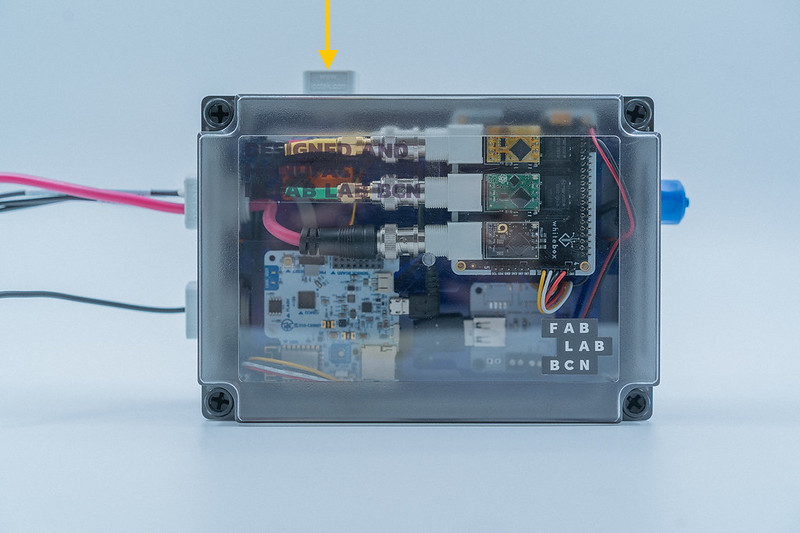
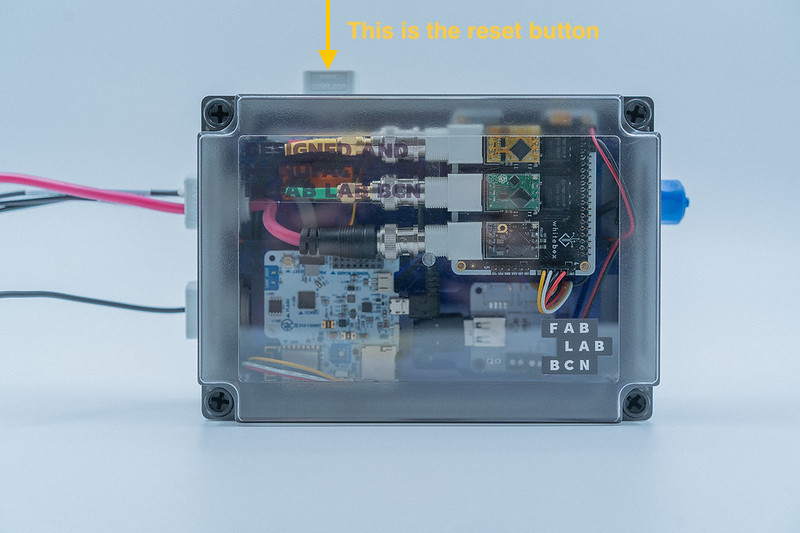
Update guides and add reset photos

Changed region(s): [[0.4375, 0.03, 0.75, 0.0901]]

diff --git a/docs/includes/en/publications/mentions.md b/docs/includes/en/publications/mentions.md
@@ -1,3 +1,4 @@
+
 - [The influence of the vegetation cycle on the mitigation of air pollution by a deciduous roadside hedge - Thor-Bjørn Ottosen, Prashant Kumar](https://www.sciencedirect.com/science/article/pii/S2210670719329567?via%3Dihub): study lead by the [University of Surrey](https://www.surrey.ac.uk/), as part of the [iScape project](https://www.iscapeproject.eu/)
 - [Evaluation of low-cost sensors for quantitative personal exposure monitoring - Sachit Mahajan, PrashantKumar](https://www.sciencedirect.com/science/article/abs/pii/S2210670720300639): study lead by the [University of Surrey](https://www.surrey.ac.uk/), as part of the [iScape project](https://www.iscapeproject.eu/)
 - [How to get the best from low-cost particulate matter sensors: guidelines and practical recommendations](https://doi.org/10.3390/s20113073): study lead by the [University of Bologna](https://www.unibo.it/en), published as part of the Special Issue for Sensors for [Particulate Matter and Air pollution](https://www.mdpi.com/journal/sensors/special_issues/PM_AP)

diff --git a/docs/Guides/firmware/Update the firmware.md b/docs/Guides/firmware/Update the firmware.md
@@ -43,6 +43,21 @@ The SAMD21 (SAM for short) chip manages the main part of the firmware. This firm
 
 	![](/assets/images/sck_2/uf2_drag.png)
 
+!!! info "Where is the reset?"
+	In other enclosures, the reset button is "exposed" outside of the enclosure:
+
+	- In a big station:
+
+	![](/assets/images/station-v3-bottom-anotated-reset.jpeg)
+
+	- Or a small station (similar 3D printed versions will also have a small hole):
+
+	![](/assets/images/station-small-reset.jpeg)
+
+	- Or a water station:
+
+	![](/assets/images/reset_water.jpg)
+
 ## Updating the ESP firmware
 
 The ESP8266 (ESP for short) chip sometimes also needs upgrade to match the lattest version of the SAM firmware. The ESP chip manages all the communications of the SCK with the outer world. The firmware can be found [here](https://github.com/fablabbcn/smartcitizen-kit-21/tree/master/esp).

diff --git a/docs/includes/en/sensors/water.md b/docs/includes/en/sensors/water.md
@@ -1,6 +1,7 @@
+
 | Metric | Usage | Probe | Driver | Calibration |
-| :-: |:-: |:-: |:-: |:-: |
-| Temperature | Soil and water|  Atlas PT-100 + PT-1000 | Atlas EZO-RTD | Not required |
+| :-: | :-: | :-: | :-: | :-: |
+| Temperature | Soil and water | Atlas PT-100 + PT-1000 | Atlas EZO-RTD | Not required |
 | PH | Water |  Atlas ENV-40-PH or ENV-35-PH | Atlas EZO-PH | Atlas CHEM-PH |
 | PH | Soil |  Atlas ENV-45-PH | Atlas EZO-PH | Atlas CHEM-PH |
 | Electrical Conductivity | Soil and water | Atlas ENV-40-EC-K | Atlas EZO-EC | Atlas CHEM-EC |

diff --git a/docs/Guides/getting started/Debugging your sensors.md b/docs/Guides/getting started/Debugging your sensors.md
@@ -12,6 +12,14 @@ or here:
 
 ![](/assets/images/station-v3-bottom-anotated-reset.jpeg)
 
+or here (similar 3D printed versions will also have a small hole):
+
+![](/assets/images/station-small-reset.jpeg)
+
+or here:
+
+![](/assets/images/reset_water.jpg)
+
 2. If this doesn't solve the problem, you might want to connect to the kits [using the Shell](/Guides/getting started/Using the Shell). 
 
 3. The next steps would depend on what the actual problem of your kits is. The most common problems are:

diff --git a/docs/Components/Soil and water.md b/docs/Components/Soil and water.md
@@ -77,5 +77,6 @@ _Image credit: Pati Scientific_
 - Dissolved Oxygen
 - GPS location
 
-!!! info "BOM"
-	Check the [Water Enclosure](/assets/bom/Water Station PATI_BOM.ods) BOM.
+!!! info "Came to stay"
+
+	This unit is here to stay. It is used in [MINKE](https://minke.eu) and it's also available upon request!

diff --git a/docs/Guides/deployments/Water sensors.md b/docs/Guides/deployments/Water sensors.md
@@ -2,6 +2,12 @@
 
 <img src="https://live.staticflickr.com/65535/51126012000_ef69edea6b_k.jpg" alt="Water Station - Patí Científic">
 
+## Getting around the box
+
+Here is a first overview of the box:
+
+![](/assets/images/water-annotated.jpeg)
+
 ## Setup
 
 !!! danger "Only if you bought them separately"

diff --git a/docs/Guides/data/Creating Models for Sensors Calibration.md b/docs/Guides/data/Creating Models for Sensors Calibration.md
@@ -1,3 +1,7 @@
+---
+ignore_macros: true
+---
+
 # Model your sensor data
 
 In this section, we will detail how to develop models for our sensors. We will try two different approaches for model calibration:

diff --git a/docs/includes/es/sensors/water.md b/docs/includes/es/sensors/water.md
@@ -1,3 +1,4 @@
+
 | Métrica | Uso | Sonda | Driver | Calibración |
 | :-: |:-: |:-: |:-: |:-: |
 | Temperatura | Suelo y agua|  Atlas PT-100 + PT-1000 | Atlas EZO-RTD | No necesaria |

diff --git a/docs/includes/en/sensors/sensors.md b/docs/includes/en/sensors/sensors.md
@@ -1,3 +1,4 @@
+
 !!! warning "WIP"
     This list is _always_ a WIP!
 
